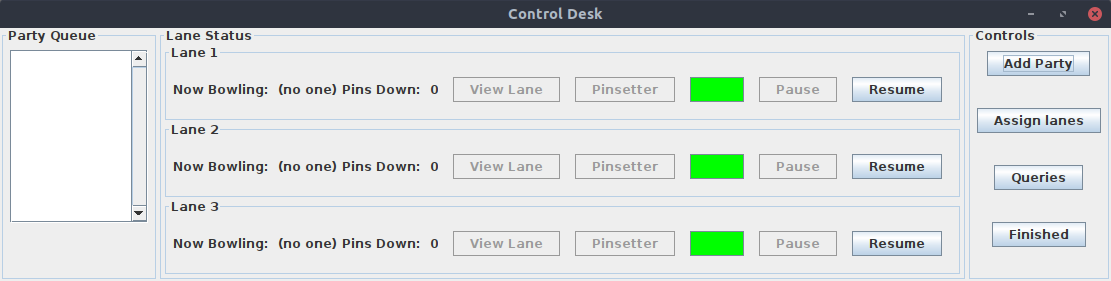
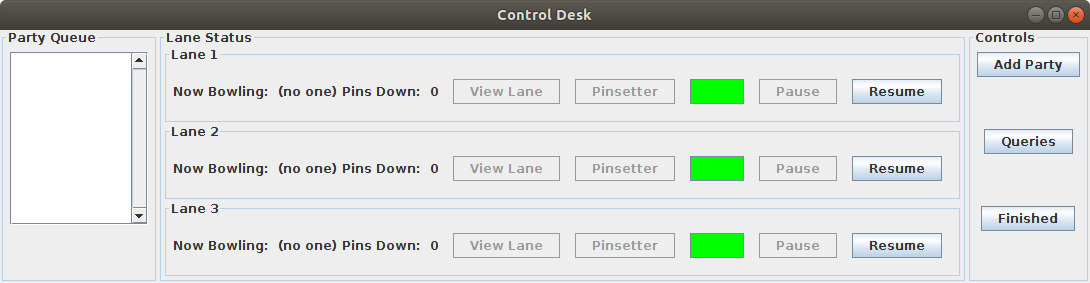
Made images smaller

Changed region(s): [[0.0, 0.0, 1.0, 0.9964]]

diff --git a/doc/overview.tex b/doc/overview.tex
@@ -30,7 +30,8 @@ We now also support ad-hoc queries on the user data. Each player can view their 
         \caption{Dynamically updated scoresheet of players in a party as they bowl.}
     \end{subfigure}
     \begin{subfigure}{\textwidth}
-        \includegraphics[width = \textwidth]{img/pinsetter.png}
+        \centering
+        \includegraphics[width = 0.4\textwidth]{img/pinsetter.png}
         \caption{Dynamically updated pinsetter, shows pins standing as dark black, and fallen as light grey}
     \end{subfigure}
     \caption{Dynamic lane view elements}
@@ -39,11 +40,13 @@ We now also support ad-hoc queries on the user data. Each player can view their 
 \begin{figure}[H]
     \centering
     \begin{subfigure}{\textwidth}
-        \includegraphics[width = \textwidth]{img/addpatron.png}
+        \centering
+        \includegraphics[width = 0.8\textwidth]{img/addpatron.png}
         \caption{Add patron modal}
     \end{subfigure}
     \begin{subfigure}{\textwidth}
-        \includegraphics[width = \textwidth]{img/addparty.png}
+        \centering
+        \includegraphics[width = 0.8\textwidth]{img/addparty.png}
         \caption{Add party modal}
     \end{subfigure}
     \caption{The data update modals}

diff --git a/doc/main.tex b/doc/main.tex
@@ -58,7 +58,7 @@ frametitleaboveskip=\dimexpr-\ht\strutbox\relax
 
 \title{DASS Assignment 3}
 \date{\today}
-\author{Animesh Sinha; Avani Gupta; Gaurang Tandon; }
+\author{Animesh Sinha; Avani Gupta; Gaurang Tandon;}
 
 \begin{document}
 \pagenumbering{arabic}
